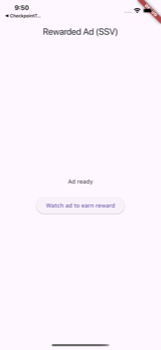
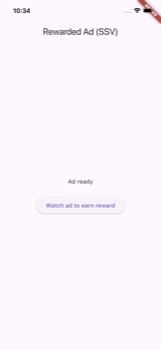
fix(ads): load ad on explicit button tap instead of automatically
Auto-reloading on dismiss/failure meant an async load could race a
still-in-flight verification poll, and coalesced setState calls could
wipe the verified result before it was ever painted. Remove all
auto-reload: the ad now only loads when the user taps "Load ad", and
the same button becomes "Watch ad to earn reward" once it's ready.
A single _busy flag (load or poll in flight) disables the button
instead of juggling separate _verifying/_reloadPending flags.

Update the README + screenshot to reflect the new explicit flow.

Changed region(s): [[0.3106, 0.9714, 0.6832, 1.0], [0.0311, 0.0, 0.2484, 0.0571]]

diff --git a/revenuecat_examples/ads_tester/lib/main.dart b/revenuecat_examples/ads_tester/lib/main.dart
@@ -49,16 +49,14 @@ class RewardedAdScreen extends StatefulWidget {
 class _RewardedAdScreenState extends State<RewardedAdScreen> {
   RewardedInterstitialAd? _ad;
   RewardVerificationToken? _token;
-  String _status = 'Loading ad…';
+  String _status = 'No ad loaded';
   String? _result;
 
-  bool _verifying = false;
-
-  @override
-  void initState() {
-    super.initState();
-    _loadAd();
-  }
+  // Ads are only ever loaded in response to a button tap — never
+  // automatically — so there's no async load racing a still-in-flight
+  // verification poll. _busy just covers "a load or a poll is running,
+  // don't let the button do anything else right now".
+  bool _busy = false;
 
   @override
   void dispose() {
@@ -68,6 +66,7 @@ class _RewardedAdScreenState extends State<RewardedAdScreen> {
 
   Future<void> _loadAd() async {
     setState(() {
+      _busy = true;
       _status = 'Loading ad…';
       _result = null;
     });
@@ -97,24 +96,26 @@ class _RewardedAdScreenState extends State<RewardedAdScreen> {
             onAdDismissedFullScreenContent: (ad) {
               ad.dispose();
               _ad = null;
-              _loadAd();
             },
             onAdFailedToShowFullScreenContent: (ad, error) {
               ad.dispose();
               _ad = null;
               setState(() => _status = 'Failed to show: $error');
-              _loadAd();
             },
           );
           if (!mounted) return;
           setState(() {
             _ad = ad;
+            _busy = false;
             _status = 'Ad ready';
           });
         },
         onAdFailedToLoad: (error) {
           if (!mounted) return;
-          setState(() => _status = 'Failed to load: $error');
+          setState(() {
+            _busy = false;
+            _status = 'Failed to load: $error';
+          });
         },
       ),
     );
@@ -130,14 +131,16 @@ class _RewardedAdScreenState extends State<RewardedAdScreen> {
       onUserEarnedReward: (ad, _) async {
         // 3. The ad was watched. AdMob fires its SSV callback to RevenueCat;
         //    poll until verification reaches a terminal state.
-        _verifying = true;
-        setState(() => _status = 'Verifying reward…');
+        setState(() {
+          _busy = true;
+          _status = 'Verifying reward…';
+        });
         final result = await Purchases.pollRewardVerification(
           token.clientTransactionId,
         );
-        _verifying = false;
         if (!mounted) return;
         setState(() {
+          _busy = false;
           _status = 'Done';
           final reward = result.reward;
           _result = result.failed || reward == null
@@ -151,6 +154,7 @@ class _RewardedAdScreenState extends State<RewardedAdScreen> {
 
   @override
   Widget build(BuildContext context) {
+    final ad = _ad;
     return Scaffold(
       appBar: AppBar(title: const Text('Rewarded Ad (SSV)')),
       body: Center(
@@ -164,8 +168,8 @@ class _RewardedAdScreenState extends State<RewardedAdScreen> {
             ],
             const SizedBox(height: 24),
             ElevatedButton(
-              onPressed: _ad != null && !_verifying ? _showAd : null,
-              child: const Text('Watch ad to earn reward'),
+              onPressed: _busy ? null : (ad != null ? _showAd : _loadAd),
+              child: Text(ad != null ? 'Watch ad to earn reward' : 'Load ad'),
             ),
           ],
         ),

diff --git a/revenuecat_examples/ads_tester/README.md b/revenuecat_examples/ads_tester/README.md
@@ -41,7 +41,9 @@ flutter run
 ```
 
 Set your RevenueCat API keys (`_appleApiKey` / `_googleApiKey`) in `lib/main.dart`
-first — a Test Store key is fine.
+first — a Test Store key is fine. Tap **Load ad**, then **Watch ad to earn
+reward** once it's ready — nothing loads automatically, so there's no async
+load racing an in-flight verification poll.
 
 Out of the box it uses **Google's public test rewarded-interstitial ad unit**, so
 the ad always fills and the full bridge runs, but `pollRewardVerification` returns
